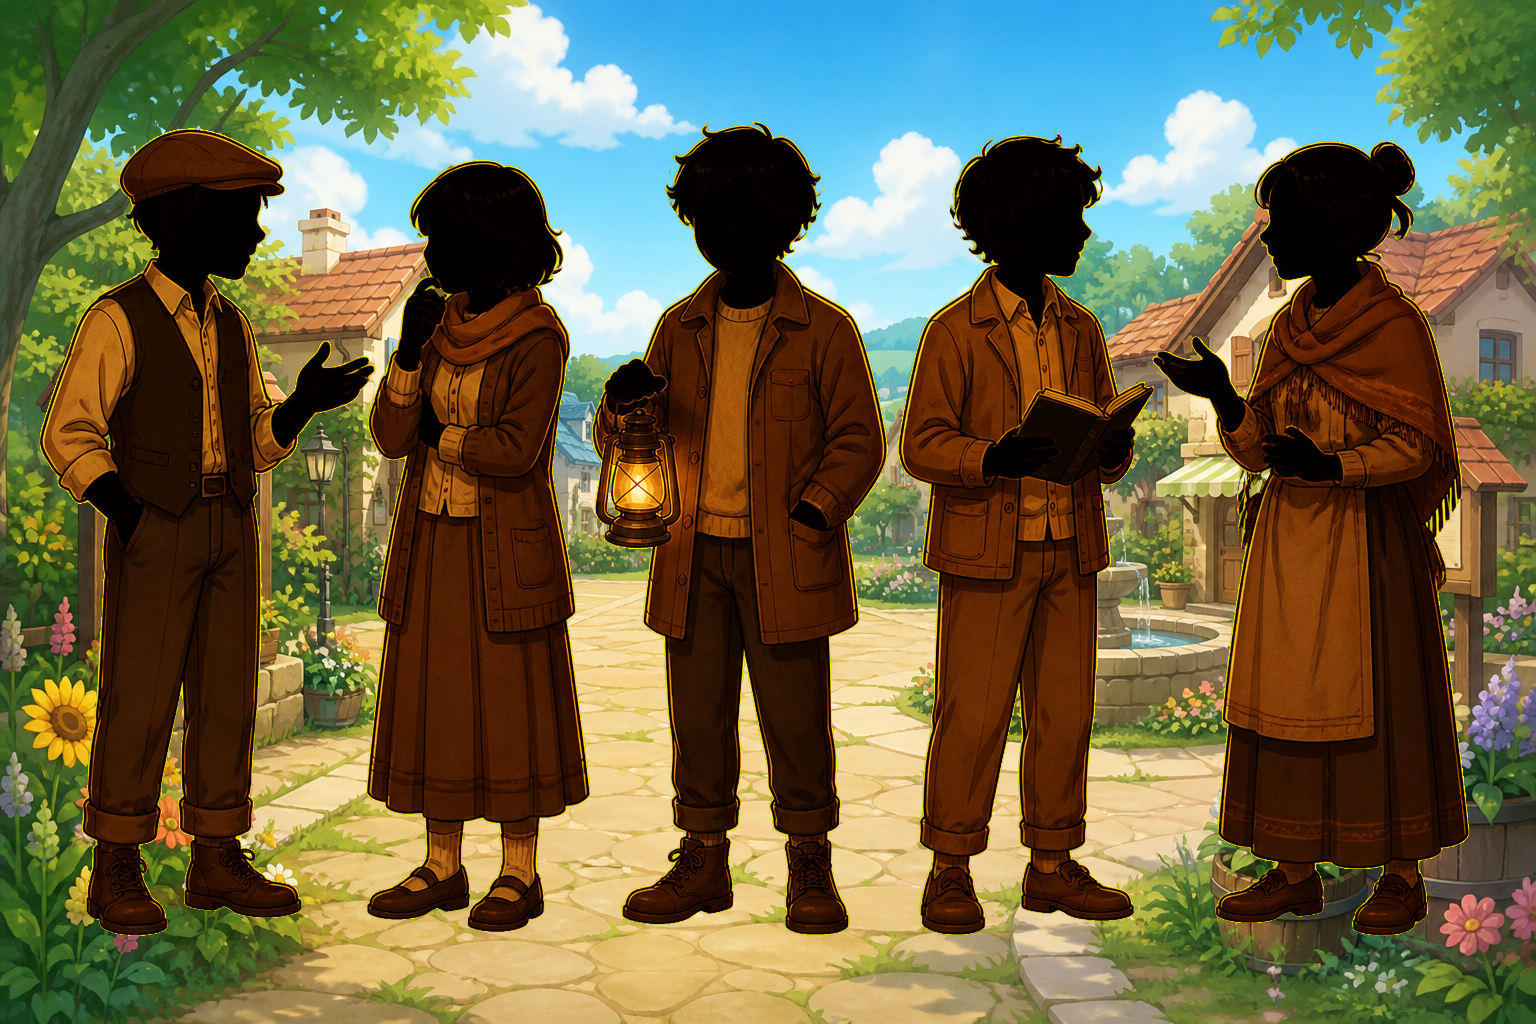
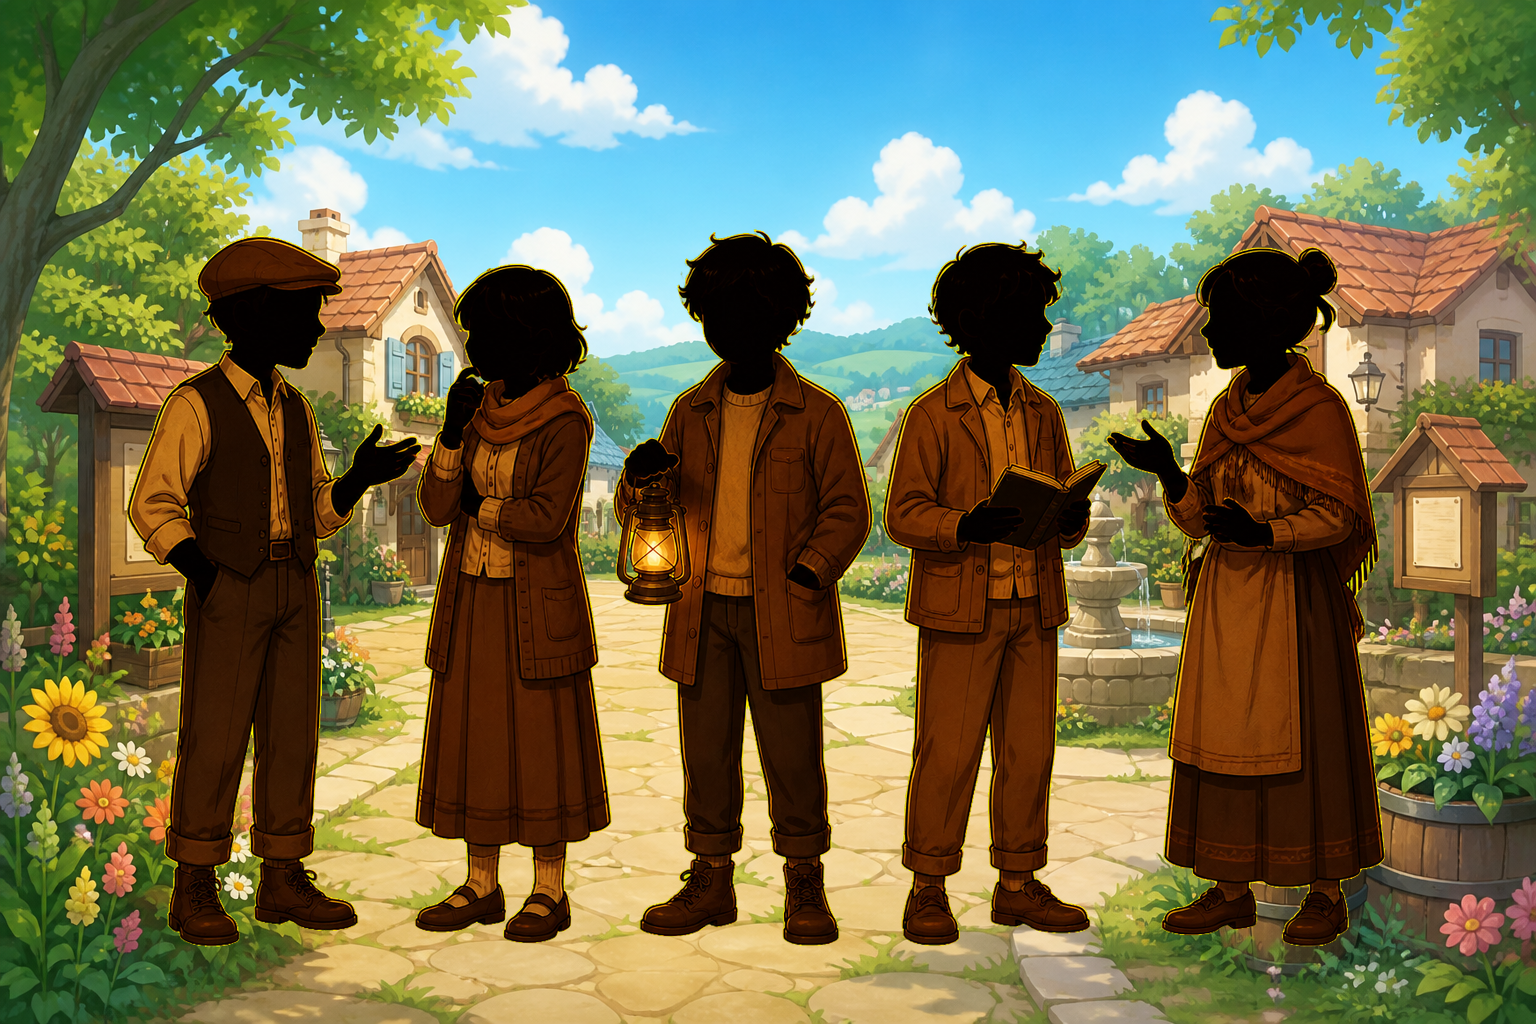
Polish scene-cast backgrounds and hide cast during opening night/end screens.
Scale day/night cast composites, suppress cast on ended games, and keep the shared display quiet during the opening sequence.

diff --git a/app/host/display/page.tsx b/app/host/display/page.tsx
@@ -19,7 +19,10 @@ import {
   Wifi,
   WifiOff,
 } from 'lucide-react';
-import GameBackground, { type BackgroundPhase } from '@/components/GameBackground';
+import GameBackground, {
+  OPENING_SEQUENCE_DURATION_MS,
+  type BackgroundPhase,
+} from '@/components/GameBackground';
 import { HeaderPinQrPanel } from '@/components/common/HeaderPinQrPanel';
 import { CharacterAvatar } from '@/components/play/CharacterAvatar';
 import { EventIllustration } from '@/components/play/EventIllustration';
@@ -1055,6 +1058,10 @@ export default function HostDisplayPage() {
   const showMorningSequence = room?.gameState === 'RESULT' && Boolean(currentMorningEvent);
   const showVoteResult =
     room?.gameState === 'VOTE_RESULT' && Boolean(room.dayVoteResult);
+  const showOpeningSequence =
+    room?.gameState !== 'WAITING' &&
+    typeof room?.openingSequenceStartedAt === 'number' &&
+    now - room.openingSequenceStartedAt < OPENING_SEQUENCE_DURATION_MS;
   const showWaitingSceneIntro =
     room?.gameState === 'WAITING' &&
     (waitingIntroStartedAt === null ||
@@ -1081,7 +1088,7 @@ export default function HostDisplayPage() {
     <GameBackground
       theme="VILLAGE"
       gameState={phase}
-      sceneCast
+      sceneCast={room?.gameState !== 'ENDED'}
       playerCount={room && phase === 'WAITING' ? playerList(room).length : 0}
       openingSequenceStartedAt={room?.openingSequenceStartedAt}
       morningTransitionStartedAt={room?.morningTransitionStartedAt}
@@ -1138,10 +1145,12 @@ export default function HostDisplayPage() {
               <p className="mt-3 text-sm font-semibold text-red-100/70">교사 화면에서 학생 공유 화면 창을 다시 열어 주세요.</p>
             </div>
           )}
-          {room && !showWaitingSceneIntro && <PublicStats room={room} />}
+          {room && !showWaitingSceneIntro && !showOpeningSequence && (
+            <PublicStats room={room} />
+          )}
           {room && showWaitingSceneIntro ? (
             <WaitingSceneIntro />
-          ) : room && room.gameState === 'ENDED' ? (
+          ) : room && showOpeningSequence ? null : room && room.gameState === 'ENDED' ? (
             <PublicVictoryDisplay room={room} />
           ) : room && showMorningSequence && currentMorningEvent ? (
             <AnimatePresence mode="wait">

diff --git a/app/play/page.tsx b/app/play/page.tsx
@@ -99,6 +99,7 @@ function PlayShell({
   phase = 'WAITING',
   playerCount = 0,
   panel = 'day',
+  sceneCast = true,
   openingSequenceStartedAt = null,
   morningTransitionStartedAt = null,
 }: {
@@ -107,6 +108,7 @@ function PlayShell({
   phase?: BackgroundPhase;
   playerCount?: number;
   panel?: 'join' | 'day' | 'night' | 'ghost';
+  sceneCast?: boolean;
   openingSequenceStartedAt?: number | null;
   morningTransitionStartedAt?: number | null;
 }) {
@@ -122,7 +124,7 @@ function PlayShell({
       theme={theme}
       gameState={phase}
       playerCount={phase === 'WAITING' ? Math.min(playerCount, 10) : 0}
-      sceneCast
+      sceneCast={sceneCast}
       openingSequenceStartedAt={openingSequenceStartedAt}
       morningTransitionStartedAt={morningTransitionStartedAt}
       className="min-h-dvh"
@@ -733,6 +735,7 @@ function PlayPageInner() {
       phase={bgPhase}
       playerCount={totalCount}
       panel={shellPanel}
+      sceneCast={room.gameState !== 'ENDED'}
       openingSequenceStartedAt={room.openingSequenceStartedAt}
       morningTransitionStartedAt={room.morningTransitionStartedAt}
     >

diff --git a/components/GameBackground.tsx b/components/GameBackground.tsx
@@ -288,7 +288,9 @@ export default function GameBackground({
     : morningNight
       ? 'NIGHT'
       : gameState;
-  const sceneKey = resolveSceneKey(visualPhase, sceneCast);
+  // 게임 시작 첫 밤에는 인물 없는 원본 밤 배경으로 전환해 밤의 시작을 분명하게 보여준다.
+  const useSceneCast = sceneCast && openingStep !== 'NIGHT';
+  const sceneKey = resolveSceneKey(visualPhase, useSceneCast);
   const scene = SCENE_IMAGES[sceneKey];
   const overlayClass = getOverlayClass(visualPhase);
   const isNight = visualPhase === 'NIGHT';
